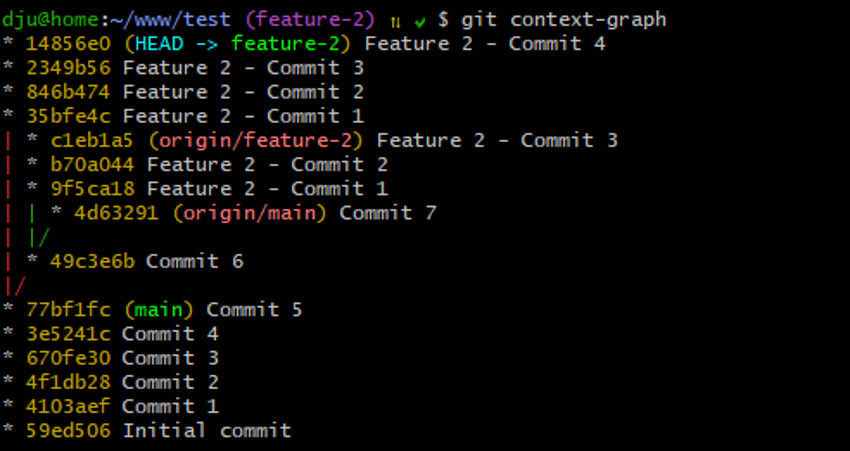
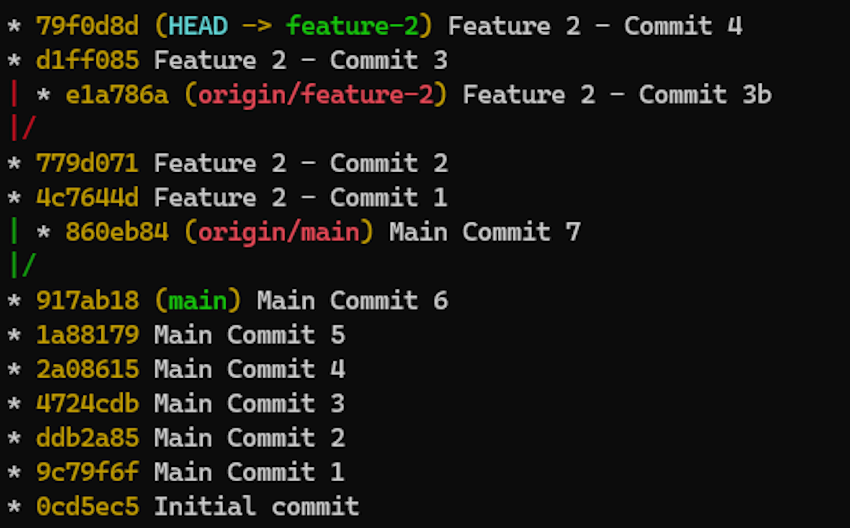
Update illustrations

Changed region(s): [[0.0, 0.0, 0.9176, 0.9933], [0.6118, 0.2794, 0.7341, 0.3415]]

diff --git a/README.md b/README.md
@@ -9,7 +9,7 @@ This is a shortcut to `git log --graph` which provides a middle ground between
 showing _only a given branch_ (which might lack context) and showing _all_ branches 
 (which might get crowded on big projects).
 
-|                `git log --graph`                 |               `git log --graph --all`               |
+|           `git log --graph --oneline`            |          `git log --graph --oneline --all`          |
 |:------------------------------------------------:|:---------------------------------------------------:|
 | ![git log --graph](doc/git-log-graph-single.png) | ![git log --graph --all](doc/git-log-graph-all.png) |
 
